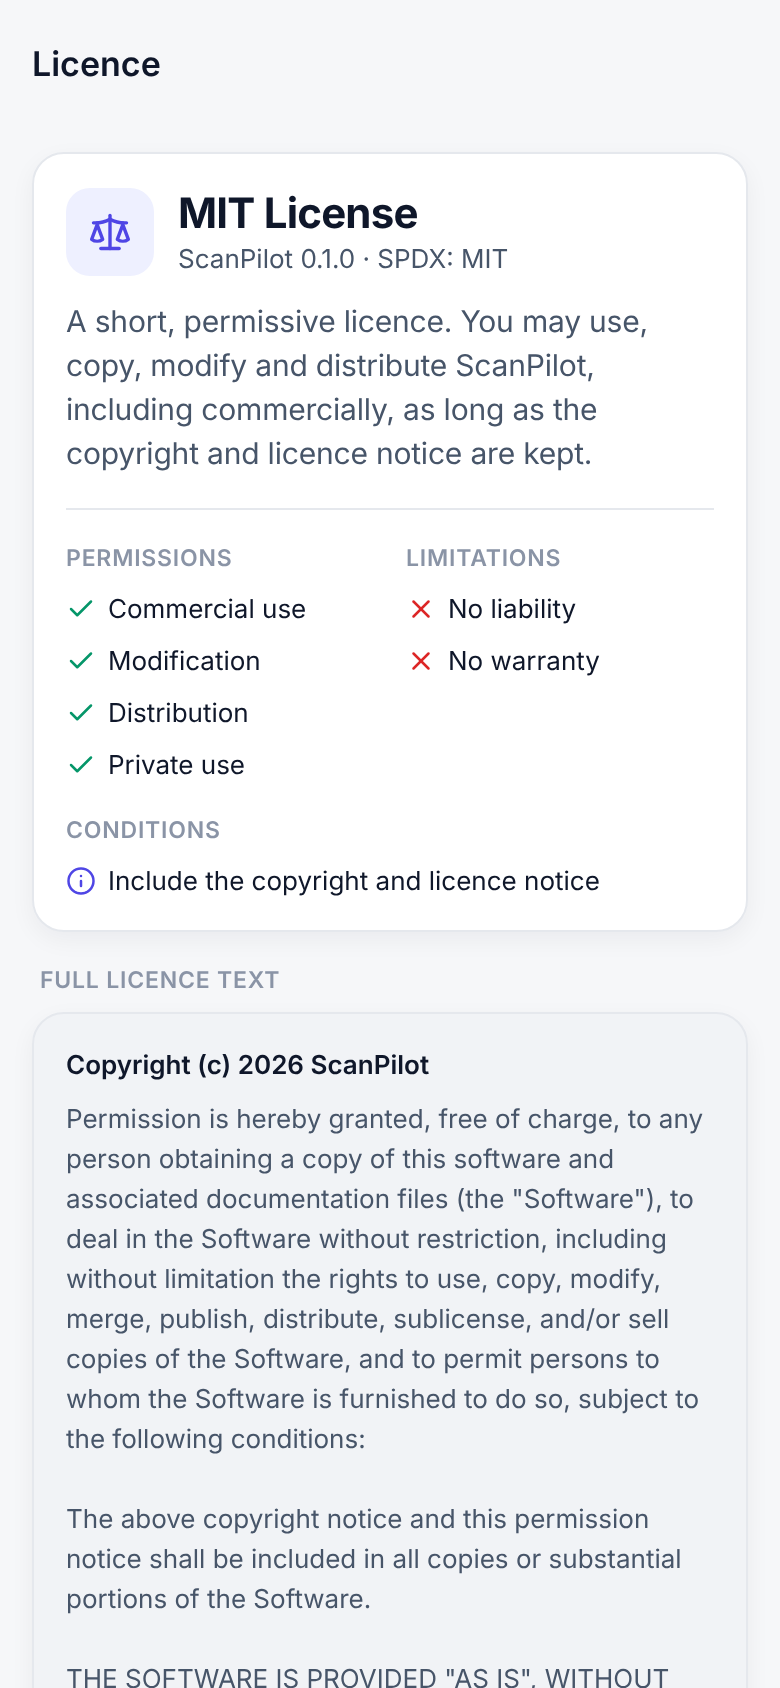
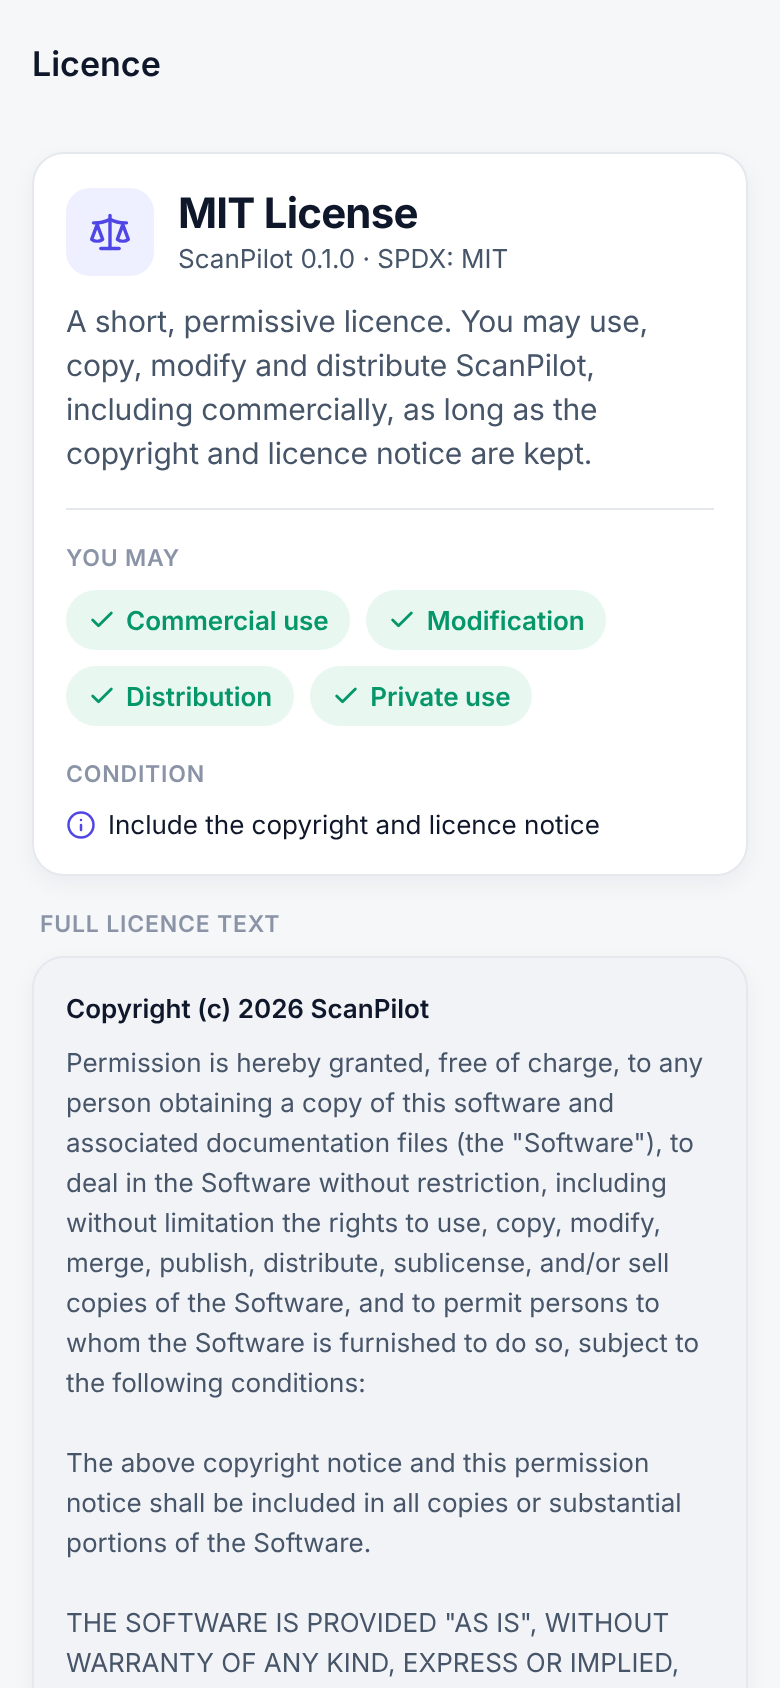
Consistent pop-ups; simpler licence page
- Alert dialogs: centred icon, title and message; equal-width Cancel and
  confirm/destructive buttons.
- Text prompts (rename, passwords) use the same card and button layout.
- Bottom sheets: header with divider; choice lists (sort, theme, move to
  folder, scanner) show radio buttons and drop repeated icons; destructive
  actions are grouped at the end behind a divider; every sheet ends with
  a Cancel button.
- Licence page: removed the Acknowledgements list and the Limitations
  column; "You may" chips plus the one condition, then the full MIT text.
  Third-party licences remain documented in THIRD_PARTY_NOTICES.md.

Claude-Session: https://claude.ai/code/session_01Vz9WThaiU94SPMjdvZeCFw

Changed region(s): [[0.0615, 0.3081, 0.8923, 1.0], [0.4615, 0.3081, 0.7692, 0.4313]]

diff --git a/src/components/ui/ActionSheet.tsx b/src/components/ui/ActionSheet.tsx
@@ -26,10 +26,73 @@ interface ActionSheetProps {
   onClose: () => void;
 }
 
-/** Bottom sheet with a list of actions. Selecting an action closes the sheet first. */
+/**
+ * Bottom sheet. Two layouts, chosen automatically:
+ *  - action menu: icon tile + label (+ hint); destructive actions grouped at the end
+ *  - choice list (any action has `selected`): radio rows; icons only when they differ
+ * Always ends with a Cancel button. Selecting an action closes the sheet first.
+ */
 export function ActionSheet({ visible, title, subtitle, actions, onClose }: ActionSheetProps) {
   const { colors, radius, spacing, dark } = useAppTheme();
   const insets = useSafeAreaInsets();
+  const choice = actions.some((a) => a.selected !== undefined);
+  const showIcons = !choice || new Set(actions.map((a) => a.icon)).size > 1;
+  const normal = actions.filter((a) => !a.destructive);
+  const destructive = actions.filter((a) => a.destructive);
+
+  const row = (action: SheetAction) => {
+    const tint = action.destructive ? colors.danger : colors.text;
+    const selected = !!action.selected;
+    return (
+      <Pressable
+        key={action.key}
+        disabled={action.disabled}
+        onPress={() => {
+          onClose();
+          // Let the sheet's dismissal start before opening another modal.
+          setTimeout(() => void action.onPress(), SHEET_DISMISS_DELAY_MS);
+        }}
+        accessibilityRole={choice && action.selected !== undefined ? 'radio' : 'menuitem'}
+        accessibilityLabel={action.label}
+        accessibilityHint={action.hint}
+        accessibilityState={{ disabled: !!action.disabled, selected, checked: choice ? selected : undefined }}
+        style={({ pressed }) => [
+          styles.row,
+          { paddingHorizontal: spacing.lg, gap: spacing.md, minHeight: MIN_TOUCH + (action.hint ? 12 : 4), borderRadius: radius.md },
+          pressed && { backgroundColor: colors.surfacePressed },
+          selected && { backgroundColor: colors.primarySoft },
+          action.disabled && { opacity: 0.45 },
+        ]}
+      >
+        {showIcons ? (
+          <View
+            style={[
+              styles.tile,
+              { borderRadius: radius.sm + 2, backgroundColor: action.destructive ? colors.dangerSoft : selected ? colors.surface : colors.surfaceAlt },
+            ]}
+          >
+            <Icon name={action.icon} size={18} color={action.destructive ? colors.danger : selected ? colors.primary : colors.textMuted} />
+          </View>
+        ) : null}
+        <View style={styles.flex}>
+          <AppText variant={selected ? 'bodyStrong' : 'body'} color={selected ? colors.primary : tint}>
+            {action.label}
+          </AppText>
+          {action.hint ? (
+            <AppText variant="caption" tone="subtle" numberOfLines={1}>
+              {action.hint}
+            </AppText>
+          ) : null}
+        </View>
+        {choice && action.selected !== undefined ? (
+          <View style={[styles.radio, { borderColor: selected ? colors.primary : colors.borderStrong }]}>
+            {selected ? <View style={[styles.radioDot, { backgroundColor: colors.primary }]} /> : null}
+          </View>
+        ) : null}
+      </Pressable>
+    );
+  };
+
   return (
     <Modal visible={visible} transparent animationType="slide" onRequestClose={onClose} statusBarTranslucent>
       <Pressable style={[styles.backdrop, { backgroundColor: colors.overlay }]} onPress={onClose} accessibilityLabel="Close menu" />
@@ -47,7 +110,7 @@ export function ActionSheet({ visible, title, subtitle, actions, onClose }: Acti
       >
         <View style={[styles.handle, { backgroundColor: colors.borderStrong }]} />
         {title ? (
-          <View style={{ paddingHorizontal: spacing.xl, paddingTop: spacing.xs, paddingBottom: spacing.md, gap: 2 }}>
+          <View style={[styles.header, { paddingHorizontal: spacing.xl, paddingBottom: spacing.md, borderBottomColor: colors.border }]}>
             <AppText variant="heading" numberOfLines={2}>
               {title}
             </AppText>
@@ -58,48 +121,22 @@ export function ActionSheet({ visible, title, subtitle, actions, onClose }: Acti
             ) : null}
           </View>
         ) : null}
-        <ScrollView bounces={false}>
-          {actions.map((action) => {
-            const color = action.destructive ? colors.danger : action.selected ? colors.primary : colors.text;
-            const tile = action.destructive ? colors.dangerSoft : action.selected ? colors.primarySoft : colors.surfaceAlt;
-            return (
-              <Pressable
-                key={action.key}
-                disabled={action.disabled}
-                onPress={() => {
-                  onClose();
-                  // Let the sheet's dismissal start before opening another modal.
-                  setTimeout(() => void action.onPress(), SHEET_DISMISS_DELAY_MS);
-                }}
-                accessibilityRole="menuitem"
-                accessibilityLabel={action.label}
-                accessibilityHint={action.hint}
-                accessibilityState={{ disabled: !!action.disabled, selected: !!action.selected }}
-                style={({ pressed }) => [
-                  styles.row,
-                  { paddingHorizontal: spacing.xl, gap: spacing.md + 2, minHeight: MIN_TOUCH + 8 },
-                  pressed && { backgroundColor: colors.surfacePressed },
-                  action.disabled && { opacity: 0.45 },
-                ]}
-              >
-                <View style={[styles.tile, { backgroundColor: tile, borderRadius: radius.sm + 2 }]}>
-                  <Icon name={action.icon} size={19} color={action.destructive || action.selected ? color : colors.textMuted} />
-                </View>
-                <View style={styles.flex}>
-                  <AppText variant={action.selected ? 'bodyStrong' : 'body'} color={color}>
-                    {action.label}
-                  </AppText>
-                  {action.hint ? (
-                    <AppText variant="caption" tone="subtle">
-                      {action.hint}
-                    </AppText>
-                  ) : null}
-                </View>
-                {action.selected ? <Icon name="checkmark" color={colors.primary} /> : null}
-              </Pressable>
-            );
-          })}
+        <ScrollView bounces={false} contentContainerStyle={{ paddingHorizontal: spacing.sm, paddingTop: spacing.sm, gap: 2 }}>
+          {normal.map(row)}
+          {destructive.length > 0 && normal.length > 0 ? <View style={[styles.divider, { backgroundColor: colors.border, marginHorizontal: spacing.lg }]} /> : null}
+          {destructive.map(row)}
         </ScrollView>
+        <Pressable
+          onPress={onClose}
+          accessibilityRole="button"
+          accessibilityLabel="Cancel"
+          style={({ pressed }) => [
+            styles.cancel,
+            { marginHorizontal: spacing.lg, marginTop: spacing.md, borderRadius: radius.md + 2, backgroundColor: pressed ? colors.surfacePressed : colors.surfaceAlt },
+          ]}
+        >
+          <AppText variant="bodyStrong">Cancel</AppText>
+        </Pressable>
       </View>
     </Modal>
   );
@@ -109,9 +146,14 @@ const SHEET_DISMISS_DELAY_MS = 250;
 
 const styles = StyleSheet.create({
   backdrop: { ...StyleSheet.absoluteFill },
-  sheet: { position: 'absolute', left: 0, right: 0, bottom: 0, maxHeight: '80%', paddingTop: 8 },
+  sheet: { position: 'absolute', left: 0, right: 0, bottom: 0, maxHeight: '86%', paddingTop: 8 },
   handle: { alignSelf: 'center', width: 36, height: 4, borderRadius: 2, marginBottom: 14 },
+  header: { gap: 2, borderBottomWidth: StyleSheet.hairlineWidth },
+  row: { flexDirection: 'row', alignItems: 'center', paddingVertical: 6 },
   tile: { width: 36, height: 36, alignItems: 'center', justifyContent: 'center' },
-  row: { flexDirection: 'row', alignItems: 'center' },
+  radio: { width: 22, height: 22, borderRadius: 11, borderWidth: 2, alignItems: 'center', justifyContent: 'center' },
+  radioDot: { width: 10, height: 10, borderRadius: 5 },
+  divider: { height: StyleSheet.hairlineWidth, marginVertical: 6 },
+  cancel: { minHeight: 50, alignItems: 'center', justifyContent: 'center' },
   flex: { flex: 1 },
 });

diff --git a/src/app/licenses.tsx b/src/app/licenses.tsx
@@ -1,19 +1,16 @@
 import Constants from 'expo-constants';
-import { useState } from 'react';
-import { Linking, Pressable, StyleSheet, View } from 'react-native';
+import { StyleSheet, View } from 'react-native';
 
-import { AppText, Icon, type IconName, ListGroup, ListRow, Screen } from '@/components/ui';
+import { AppText, Icon, type IconName, Screen } from '@/components/ui';
 import {
   COPYRIGHT,
   LICENSE_CONDITIONS,
-  LICENSE_LIMITATIONS,
   LICENSE_NAME,
   LICENSE_PERMISSIONS,
   LICENSE_SPDX,
   LICENSE_SUMMARY,
   LICENSE_TEXT,
 } from '@/features/appLicense';
-import { LICENSES } from '@/features/licenses';
 import { elevation, useAppTheme } from '@/theme';
 
 function TermColumn({ title, items, icon, color }: { title: string; items: readonly string[]; icon: IconName; color: string }) {
@@ -37,7 +34,6 @@ function TermColumn({ title, items, icon, color }: { title: string; items: reado
 
 export default function LicensesScreen() {
   const { colors, spacing, radius, dark } = useAppTheme();
-  const [showThirdParty, setShowThirdParty] = useState(false);
   const version = Constants.expoConfig?.version ?? '—';
   const card = [styles.card, { backgroundColor: colors.surface, borderColor: colors.border, borderRadius: radius.lg, padding: spacing.lg }, !dark && elevation.card];
 
@@ -60,12 +56,21 @@ export default function LicensesScreen() {
             {LICENSE_SUMMARY}
           </AppText>
           <View style={[styles.divider, { backgroundColor: colors.border, marginVertical: spacing.lg }]} />
-          <View style={[styles.columns, { gap: spacing.lg }]}>
-            <TermColumn title="Permissions" items={LICENSE_PERMISSIONS} icon="checkmark" color={colors.success} />
-            <TermColumn title="Limitations" items={LICENSE_LIMITATIONS} icon="close" color={colors.danger} />
+          <AppText variant="label" tone="subtle" style={[styles.upper, { marginBottom: spacing.sm }]}>
+            You may
+          </AppText>
+          <View style={[styles.chips, { gap: spacing.sm }]}>
+            {LICENSE_PERMISSIONS.map((item) => (
+              <View key={item} style={[styles.chip, { backgroundColor: colors.successSoft, borderRadius: radius.pill }]}>
+                <Icon name="checkmark" size={14} color={colors.success} strokeWidth={2.4} />
+                <AppText variant="caption" color={colors.success} style={styles.chipText}>
+                  {item}
+                </AppText>
+              </View>
+            ))}
           </View>
           <View style={{ marginTop: spacing.lg }}>
-            <TermColumn title="Conditions" items={LICENSE_CONDITIONS} icon="information-circle-outline" color={colors.primary} />
+            <TermColumn title="Condition" items={LICENSE_CONDITIONS} icon="information-circle-outline" color={colors.primary} />
           </View>
         </View>
 
@@ -83,42 +88,6 @@ export default function LicensesScreen() {
           </View>
         </View>
 
-        <ListGroup title="Acknowledgements" footer="ScanPilot is built on free software. Each component keeps its own licence.">
-          <ListRow
-            icon="code-slash-outline"
-            title="Third-party components"
-            value={`${LICENSES.length}`}
-            onPress={() => setShowThirdParty((v) => !v)}
-            trailing={<Icon name={showThirdParty ? 'chevron-up' : 'chevron-down'} size={17} color={colors.textSubtle} />}
-            showChevron={false}
-          />
-          {showThirdParty
-            ? LICENSES.map((entry) => (
-                <Pressable
-                  key={entry.name}
-                  onPress={() => void Linking.openURL(entry.url)}
-                  accessibilityRole="link"
-                  accessibilityLabel={`${entry.name}, ${entry.license}`}
-                  accessibilityHint="Opens the project page"
-                  style={({ pressed }) => [styles.dep, { paddingHorizontal: spacing.lg, gap: spacing.md }, pressed && { backgroundColor: colors.surfacePressed }]}
-                >
-                  <View style={styles.flex}>
-                    <AppText variant="body" numberOfLines={2}>
-                      {entry.name}
-                    </AppText>
-                    <AppText variant="caption" tone="muted" numberOfLines={1}>
-                      {entry.usage}
-                    </AppText>
-                  </View>
-                  <View style={[styles.pill, { backgroundColor: colors.surfaceAlt, borderRadius: radius.pill }]}>
-                    <AppText variant="label" tone="muted" numberOfLines={1}>
-                      {entry.license}
-                    </AppText>
-                  </View>
-                </Pressable>
-              ))
-            : null}
-        </ListGroup>
       </View>
     </Screen>
   );
@@ -130,10 +99,10 @@ const styles = StyleSheet.create({
   headerRow: { flexDirection: 'row', alignItems: 'center' },
   badge: { width: 44, height: 44, alignItems: 'center', justifyContent: 'center' },
   divider: { height: StyleSheet.hairlineWidth },
-  columns: { flexDirection: 'row' },
   column: { flex: 1 },
   term: { flexDirection: 'row', alignItems: 'center' },
   upper: { textTransform: 'uppercase' },
-  dep: { flexDirection: 'row', alignItems: 'center', minHeight: 60, paddingVertical: 10 },
-  pill: { paddingHorizontal: 8, paddingVertical: 3, maxWidth: 150 },
+  chips: { flexDirection: 'row', flexWrap: 'wrap' },
+  chip: { flexDirection: 'row', alignItems: 'center', gap: 5, paddingHorizontal: 11, paddingVertical: 6 },
+  chipText: { fontWeight: '600' },
 });

diff --git a/src/components/ui/DialogHost.tsx b/src/components/ui/DialogHost.tsx
@@ -57,21 +57,21 @@ function Dialog({ dialog }: { dialog: DialogRequest }) {
             !dark && elevation.raised,
           ]}
         >
-          <Pressable accessible={false} onPress={() => undefined} style={{ gap: spacing.md }}>
-            <View style={[styles.badge, { backgroundColor: toneSoft, borderRadius: radius.md + 2 }]}>
-              <Icon name={TONE_ICON[dialog.tone]} size={22} color={toneColor} />
+          <Pressable accessible={false} onPress={() => undefined} style={[styles.content, { gap: spacing.md }]}>
+            <View style={[styles.badge, { backgroundColor: toneSoft }]}>
+              <Icon name={TONE_ICON[dialog.tone]} size={24} color={toneColor} />
             </View>
-            <View style={{ gap: spacing.xs }}>
-              <AppText variant="heading" style={styles.title}>
+            <View style={[styles.copy, { gap: 6 }]}>
+              <AppText variant="heading" align="center" style={styles.title}>
                 {dialog.title}
               </AppText>
               {dialog.message ? (
-                <AppText tone="muted" style={styles.message}>
+                <AppText tone="muted" align="center" style={styles.message}>
                   {dialog.message}
                 </AppText>
               ) : null}
             </View>
-            <View style={[stacked ? styles.stack : styles.row, { gap: spacing.sm, marginTop: spacing.sm }]}>
+            <View style={[stacked ? styles.stack : styles.row, styles.buttons, { gap: spacing.sm, marginTop: spacing.sm }]}>
               {(stacked ? [...ordered].reverse() : ordered).map((button) => {
                 const isCancel = button.style === 'cancel';
                 const destructive = button.style === 'destructive';
@@ -168,13 +168,16 @@ export function DialogHost() {
 const styles = StyleSheet.create({
   flex: { flex: 1 },
   backdrop: { flex: 1, alignItems: 'center', justifyContent: 'center', padding: 28 },
-  card: { width: '100%', maxWidth: 360 },
-  badge: { width: 44, height: 44, alignItems: 'center', justifyContent: 'center' },
-  title: { fontSize: 17, lineHeight: 23 },
+  card: { width: '100%', maxWidth: 340 },
+  content: { alignItems: 'center' },
+  copy: { alignSelf: 'stretch', alignItems: 'center' },
+  buttons: { alignSelf: 'stretch' },
+  badge: { width: 52, height: 52, borderRadius: 26, alignItems: 'center', justifyContent: 'center' },
+  title: { fontSize: 18, lineHeight: 24 },
   message: { fontSize: 14.5, lineHeight: 21 },
   row: { flexDirection: 'row' },
   stack: { flexDirection: 'column' },
-  button: { minHeight: 48, alignItems: 'center', justifyContent: 'center', paddingHorizontal: 16 },
+  button: { minHeight: 50, alignItems: 'center', justifyContent: 'center', paddingHorizontal: 16 },
   toast: { position: 'absolute', alignSelf: 'center', flexDirection: 'row', alignItems: 'center', gap: 10, paddingHorizontal: 18, paddingVertical: 12, maxWidth: '88%' },
   toastText: { fontSize: 14, flexShrink: 1 },
 });

diff --git a/src/components/ui/TextPromptModal.tsx b/src/components/ui/TextPromptModal.tsx
@@ -78,7 +78,9 @@ function PromptBody({
               !dark && elevation.raised,
             ]}
           >
-            <AppText variant="heading">{title}</AppText>
+            <AppText variant="heading" style={styles.title}>
+              {title}
+            </AppText>
             {message ? <AppText tone="muted">{message}</AppText> : null}
             <TextInput
               value={value}
@@ -114,9 +116,16 @@ function PromptBody({
                 {error}
               </AppText>
             ) : null}
-            <View style={[styles.actions, { gap: spacing.sm }]}>
-              <Button label="Cancel" variant="ghost" onPress={onCancel} compact />
-              <Button label={confirmLabel} onPress={submit} loading={busy} compact />
+            <View style={[styles.actions, { gap: spacing.sm, marginTop: spacing.xs }]}>
+              <Pressable
+                onPress={onCancel}
+                accessibilityRole="button"
+                accessibilityLabel="Cancel"
+                style={({ pressed }) => [styles.cancel, { borderRadius: radius.md + 2, backgroundColor: colors.surfaceAlt, opacity: pressed ? 0.85 : 1 }]}
+              >
+                <AppText variant="bodyStrong">Cancel</AppText>
+              </Pressable>
+              <Button label={confirmLabel} onPress={submit} loading={busy} style={styles.flex} />
             </View>
           </Pressable>
         </Pressable>
@@ -127,7 +136,9 @@ function PromptBody({
 const styles = StyleSheet.create({
   flex: { flex: 1 },
   backdrop: { flex: 1, alignItems: 'center', justifyContent: 'center', padding: 24 },
-  panel: { width: '100%', maxWidth: 420 },
+  panel: { width: '100%', maxWidth: 380 },
   input: { minHeight: 50, borderWidth: 1 },
-  actions: { flexDirection: 'row', justifyContent: 'flex-end' },
+  actions: { flexDirection: 'row' },
+  cancel: { flex: 1, minHeight: 52, alignItems: 'center', justifyContent: 'center' },
+  title: { fontSize: 18, lineHeight: 24 },
 });

diff --git a/src/features/appLicense.ts b/src/features/appLicense.ts
@@ -11,7 +11,6 @@ export const LICENSE_SUMMARY =
 
 export const LICENSE_PERMISSIONS = ['Commercial use', 'Modification', 'Distribution', 'Private use'] as const;
 export const LICENSE_CONDITIONS = ['Include the copyright and licence notice'] as const;
-export const LICENSE_LIMITATIONS = ['No liability', 'No warranty'] as const;
 
 export const LICENSE_TEXT = `MIT License
 

diff --git a/README.md b/README.md
@@ -42,7 +42,7 @@ Documents never leave the device unless the user explicitly shares or exports th
 * In-app confirmation dialogs and toasts, skeleton loading.
 * ScanPilot's own document camera: frame guide, flash, grid, batch pages, on-device edge detection and auto-crop, then a review screen with live filter previews (the system scanner remains available in Settings).
 * Camera scan, PDF import and photos → PDF available inside every tool's document picker, in empty Files/folders (plus a floating Scan button) and as **Add pages** in the document viewer.
-* Professional light/dark/system design system (Inter type, Lucide icons), animated start-up screen, swipeable onboarding, progress dialogs, privacy page, MIT licence page with third-party acknowledgements, storage usage & temp-file cleanup.
+* Professional light/dark/system design system (Inter type, Lucide icons), animated start-up screen, swipeable onboarding, progress dialogs, privacy page, MIT licence page, storage usage & temp-file cleanup.
 * Tested PDF engine (pdf-lib): images→PDF, merge, split, extract, rotate, reorder, delete, duplicate — UI arrives in Milestone 4.
 
 Tools that need Android's native renderer (edit, sign, redact, OCR, compress, PDF→JPG/Word) show

diff --git a/IMPLEMENTATION_PLAN.md b/IMPLEMENTATION_PLAN.md
@@ -106,7 +106,7 @@ Professional visual overhaul across every screen, driven from shared tokens and 
 - **Onboarding**: swipeable three-step introduction with illustrated scenes, animated dots and Continue → Get started.
 - **Home**: ink scanner hero, Import PDF / JPG to PDF cards, 4-column quick tools; Tools tab is a two-column card grid; Settings opens with a library summary; tab bar uses a pill indicator.
 - **Scan review**: labelled toolbar tiles, dashed "Add" page tile, sticky Add + Save bar.
-- **Licence**: ScanPilot is MIT-licensed (`LICENSE`, `package.json`). Settings → Licence shows the MIT summary (permissions / conditions / limitations) and full text; third-party acknowledgements are collapsed beneath it (their notices must still be shipped).
+- **Licence**: ScanPilot is MIT-licensed (`LICENSE`, `package.json`). Settings → Licence shows the MIT summary (what you may do, the one condition) and the full text. Third-party licences are listed in `THIRD_PARTY_NOTICES.md`.
 - **App icon / splash / favicon** regenerated from the same vector mark: `node scripts/brand/render-icons.mjs`.
 
 ### Camera permission fix (found on a real device)
